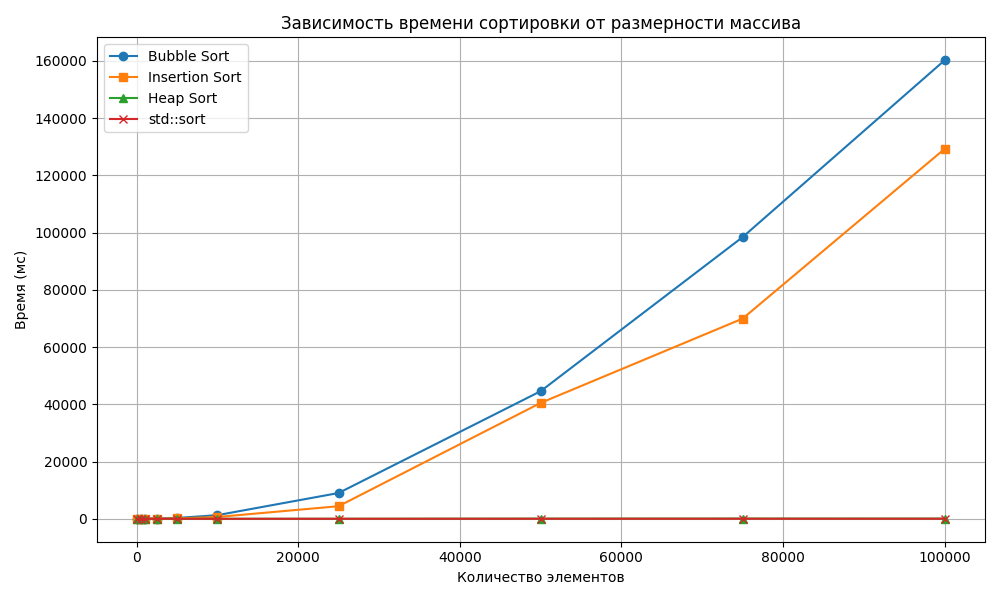
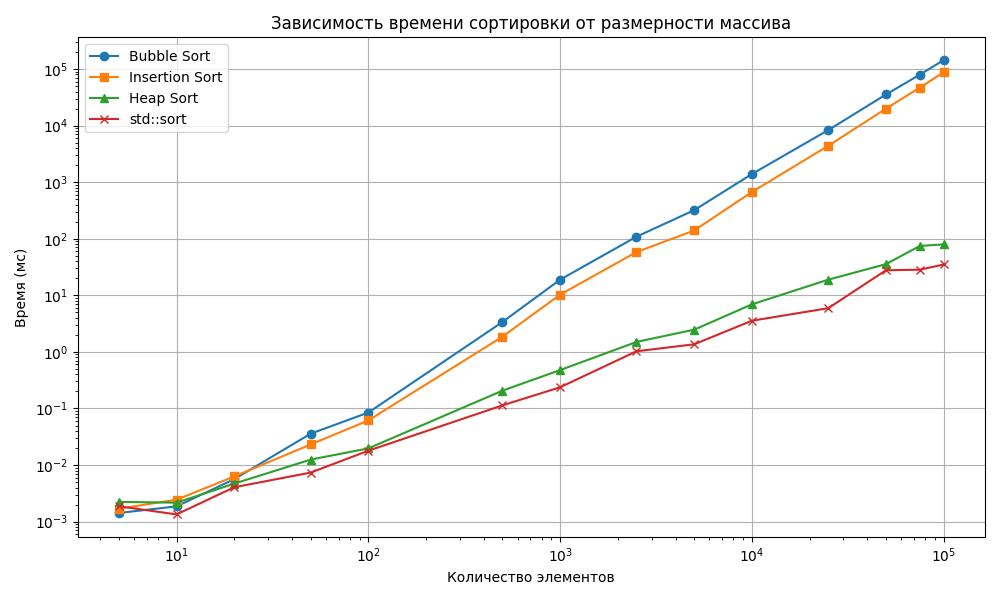
little changes

diff --git a/main.cpp b/main.cpp
@@ -20,7 +20,7 @@ int main() {
     vector<Passenger> allData = readData("input.csv");
     if (allData.empty()) return 1;
 
-    vector<int> sizes = {100, 500, 1000, 2500, 5000, 10000, 25000, 50000, 75000, 100000};
+    vector<int> sizes = {5, 10, 20, 50, 100, 500, 1000, 2500, 5000, 10000, 25000, 50000, 75000, 100000};
     ofstream results("sort_times.csv");
     results << "Size,Bubble,Insertion,Heap,StdSort\n";
 
@@ -38,28 +38,28 @@ int main() {
         auto startBubble = high_resolution_clock::now();
         bubbleSort(testDataBubble);
         auto stopBubble = high_resolution_clock::now();
-        double timeBubble = duration_cast<milliseconds>(stopBubble - startBubble).count();
+        double timeBubble = duration<double,milli>(stopBubble - startBubble).count();
 
         // Insertion Sort
         vector<Passenger> testDataInsert = dataSlice;
         auto startInsert = high_resolution_clock::now();
         insertionSort(testDataInsert);
         auto stopInsert = high_resolution_clock::now();
-        double timeInsert = duration_cast<milliseconds>(stopInsert - startInsert).count();
+        double timeInsert = duration<double,milli>(stopInsert - startInsert).count();
 
         // Heap Sort
         vector<Passenger> testDataHeap = dataSlice;
         auto startHeap = high_resolution_clock::now();
         heapSort(testDataHeap);
         auto stopHeap = high_resolution_clock::now();
-        double timeHeap = duration_cast<milliseconds>(stopHeap - startHeap).count();
+        double timeHeap = duration<double,milli>(stopHeap - startHeap).count();
 
         // std::sort
         vector<Passenger> testDataStd = dataSlice;
         auto startStd = high_resolution_clock::now();
         sort(testDataStd.begin(), testDataStd.end());
         auto stopStd = high_resolution_clock::now();
-        double timeStd = duration_cast<milliseconds>(stopStd - startStd).count();
+        double timeStd = duration<double,milli>(stopStd - startStd).count();
         
         // Отсортированный образец для наглядности
         if (n == 1000) writeData("sorted_output.csv", testDataStd);

diff --git a/sort_alg.cpp b/sort_alg.cpp
@@ -26,7 +26,7 @@ void insertionSort(std::vector<Passenger>& arr) {
         int j = i - 1;
         while (j >= 0 && arr[j] > key) {
             arr[j + 1] = arr[j];
-            j = j - 1;
+            j--;
         }
         arr[j + 1] = key;
     }
@@ -45,7 +45,7 @@ void heapify(std::vector<Passenger>& arr, int n, int i) {
         std::swap(arr[i], arr[largest]);
         heapify(arr, n, largest);
     }
-}
+}   
 
 void heapSort(std::vector<Passenger>& arr) {
     int n = arr.size();

diff --git a/passenger.h b/passenger.h
@@ -29,7 +29,7 @@ struct Passenger {
         if (fullName != p.fullName) return fullName < p.fullName;
         return seatNumber < p.seatNumber;
     }
-
+    
     bool operator>(const Passenger& p) const { return p < *this; }
     bool operator<=(const Passenger& p) const { return !(*this > p); }
     bool operator>=(const Passenger& p) const { return !(*this < p); }

diff --git a/plots.py b/plots.py
@@ -19,6 +19,8 @@ def plot_results():
     plt.title('Зависимость времени сортировки от размерности массива')
     plt.xlabel('Количество элементов')
     plt.ylabel('Время (мс)')
+    plt.xscale('log')
+    plt.yscale('log')
     plt.legend()
     plt.grid(True)
     plt.tight_layout()